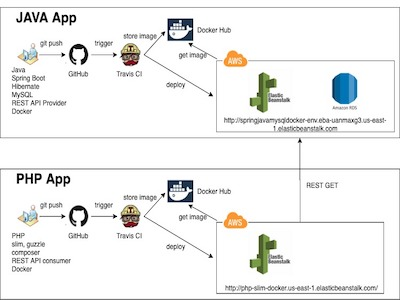
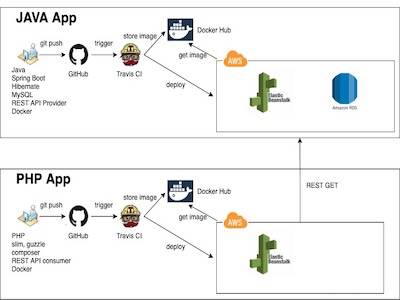
update php app url

Changed region(s): [[0.57, 0.93, 0.96, 0.99], [0.54, 0.39, 0.96, 0.45]]

diff --git a/index.html b/index.html
@@ -104,7 +104,7 @@
                                 <div class="portfolio-caption-heading">Event to Meet</div>
                                 <div class="portfolio-caption-subheading text-muted">PHP-slim-guzzle-AWS-docker</div>
                                 <a href="https://github.com/ssupattra/php-slim-guzzle-docker" target="_blank"><img src="https://img.icons8.com/material-sharp/24/000000/github.png"/></a>
-                                <a href="http://php-slim-docker.us-east-1.elasticbeanstalk.com" target="_blank"><img src="https://img.icons8.com/material-sharp/24/000000/external-link.png"/>Live demo</a>
+                                <a href="http://eventtomeet-env.eba-pfqqwjeq.us-east-1.elasticbeanstalk.com" target="_blank"><img src="https://img.icons8.com/material-sharp/24/000000/external-link.png"/>Live demo</a>
 
                             </div>
                         </div>
@@ -356,7 +356,7 @@
                                         <li>Technology: PHP, slim, guzzle (REST API), composer, Docker</li>
                                     </ul>
                                     <a href="https://github.com/ssupattra/php-slim-guzzle-docker" target="_blank"><img src="https://img.icons8.com/material-sharp/48/000000/github.png"/></a>&nbsp;&nbsp;&nbsp;&nbsp;
-                                    <a href="http://php-slim-docker.us-east-1.elasticbeanstalk.com" target="_blank"><img src="https://img.icons8.com/material-sharp/48/000000/external-link.png"/></a><br>
+                                    <a href="http://eventtomeet-env.eba-pfqqwjeq.us-east-1.elasticbeanstalk.com" target="_blank"><img src="https://img.icons8.com/material-sharp/48/000000/external-link.png"/></a><br>
 
                                     <button class="btn btn-primary" data-dismiss="modal" type="button"><i class="fas fa-times mr-1"></i>Close Project</button>
                                 </div>
